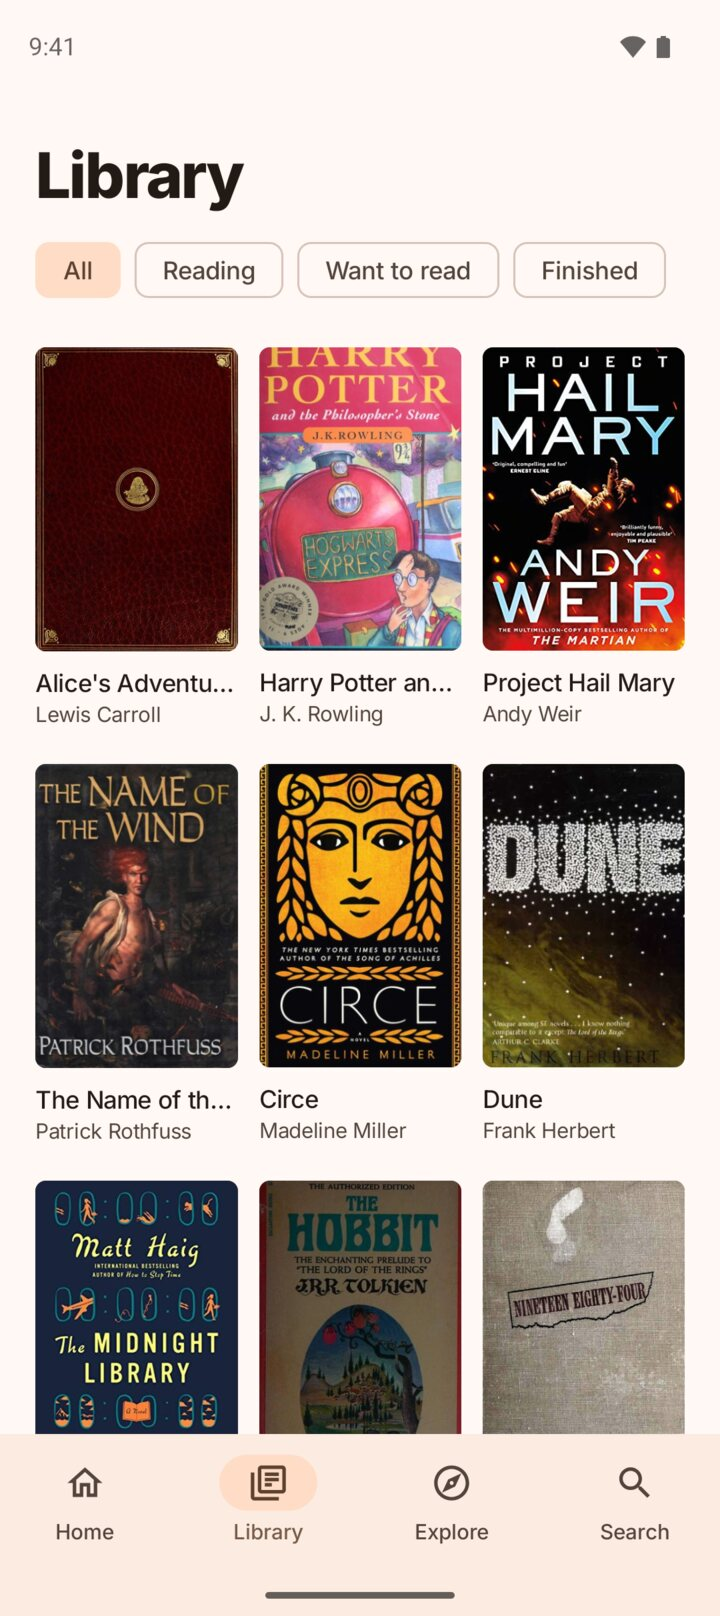
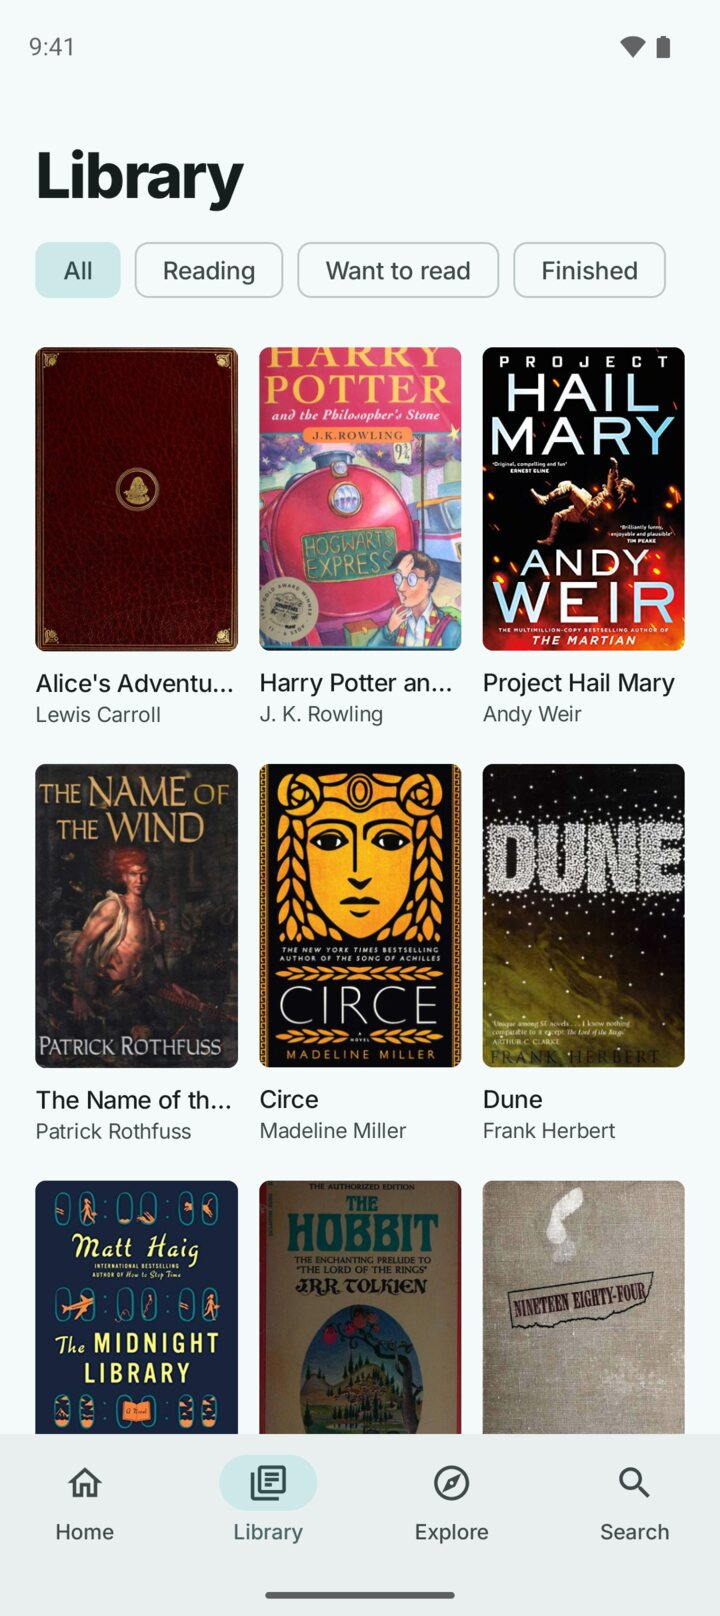
Update screenshots and localization: change color palette and improve German tab names

Changed region(s): [[0.3056, 0.8973, 0.4583, 0.9592], [0.0306, 0.1238, 0.1833, 0.1856]]

diff --git a/tooling/screenshots.py b/tooling/screenshots.py
@@ -16,7 +16,7 @@ FASTLANE = ROOT / "android/fastlane/metadata/android"
 DARK = ROOT / "android/design/screenshots"
 CACHE = Path(tempfile.gettempdir()) / "shelf-screenshots"
 DAY = 86_400_000
-PALETTE = "FFB5651D"
+PALETTE = "FF3C6E71"
 
 LOCALES = {
     "en": dict(
@@ -40,7 +40,7 @@ LOCALES = {
     ),
     "de": dict(
         folder="de",
-        tabs=("Start", "Bibliothek", "Entdecken"),
+        tabs=("Startseite", "Bibliothek", "Entdecken"),
         settings=("Einstellungen", "Alle ("),
         cover="Cover von",
         reader=(151411, "Alice im Wunderland", "Lewis Carroll", 8595966, 19778),
@@ -329,7 +329,9 @@ def prepare_device():
                   "animator_duration_scale"):
         shell("settings", "put", "global", scale, "0")
     palette = json.dumps({
+        "android.theme.customization.color_source": "preset",
         "android.theme.customization.system_palette": PALETTE,
+        "android.theme.customization.accent_color": PALETTE,
         "android.theme.customization.theme_style": "TONAL_SPOT",
     })
     shell("settings", "put", "secure", "theme_customization_overlay_packages",
